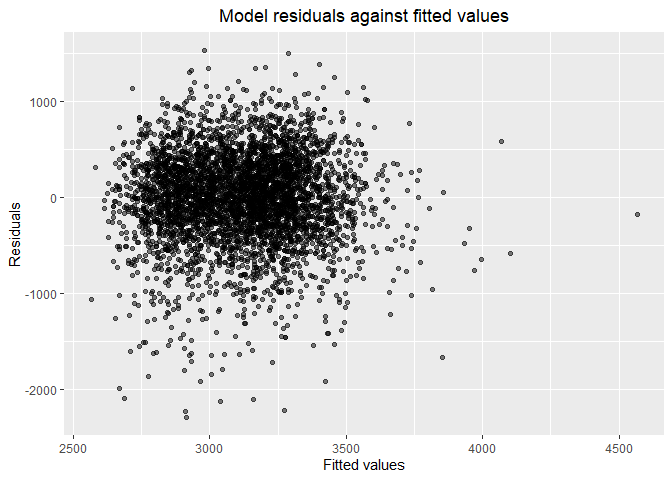
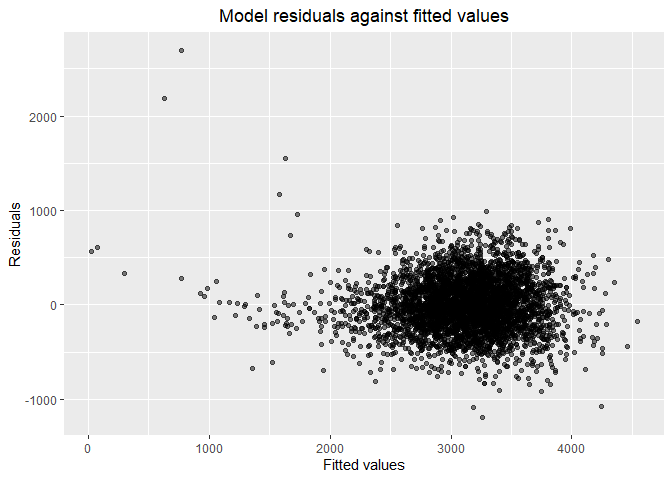
Comparison of the three models

diff --git a/p8105_hw6_hw2861.md b/p8105_hw6_hw2861.md
@@ -132,6 +132,7 @@ of several variables on a child’s birthweight.
 ``` r
 birthweight_df = 
   read_csv("./Data/birthweight.csv") %>% 
+  janitor::clean_names()  %>% 
    mutate(
     babysex = recode(babysex,'1' = "male", '2' = "female"),
     babysex = as_factor(babysex),
@@ -155,36 +156,34 @@ birthweight_df =
 
 -   I googled the “important factors that influence birth weight of
     newborns”. Some of the widely mentioned hypothesized predictors are
-    “mother’s weight at birth”, “Gender” and ” ethnicity”.
+    “mother’s weight at birth” and “Gender”.
+
+Also, other measurements of the child’s body are the important factors
+in birth weight. So, i include the (baby’s length and head
+circumference) as predictors..
 
 According to the hypothesized structure for the factors that underly
 birthweight, i proposed a regression model for **bwt**.
 
 ``` r
-bwt_regression1 =
-  lm(bwt ~ babysex + delwt  + mrace + frace, data = birthweight_df)
+bwt_model1 =
+  lm(bwt ~ babysex + delwt + blength* bhead, data = birthweight_df)
 ```
 
 ### Create predictions and residuals for the model
 
 ``` r
-bwt_regression1_df=
+bwt_model1_df=
   birthweight_df %>% 
-  modelr::add_predictions(bwt_regression1) %>% 
-  modelr::add_residuals(bwt_regression1) 
+  modelr::add_predictions(bwt_model1) %>% 
+  modelr::add_residuals(bwt_model1) 
 ```
-
-    ## Warning in predict.lm(model, data): prediction from a rank-deficient fit may be
-    ## misleading
-
-    ## Warning in predict.lm(model, data): prediction from a rank-deficient fit may be
-    ## misleading
 
 ### Show a plot of model residuals against fitted values
 
 ``` r
-bwt_regression1_plot =
-bwt_regression1_df %>% 
+bwt_model1_plot =
+bwt_model1_df %>% 
   ggplot(aes(x = pred, y = resid)) +
   geom_point(alpha = 0.5)+
   labs(x = "Fitted values",
@@ -192,7 +191,58 @@ bwt_regression1_df %>%
     title = "Model residuals against fitted values")+
   theme(plot.title = element_text(hjust = 0.5))
 
-bwt_regression1_plot
+bwt_model1_plot
 ```
 
 ![](p8105_hw6_hw2861_files/figure-gfm/unnamed-chunk-7-1.png)<!-- -->
+
+### Compare my model to two others:
+
+-   One using length at birth and gestational age as predictors (main
+    effects only)
+
+-   One using head circumference, length, sex, and all interactions
+    (including the three-way interaction) between these
+
+``` r
+bwt_model2 = lm(bwt ~ blength + gaweeks, data = birthweight_df)
+bwt_model3 = lm(bwt ~ bhead * blength * babysex, data = birthweight_df)
+
+
+cv_df = 
+  crossv_mc(birthweight_df, 100) %>% 
+  mutate(
+    train = map(train, as_tibble),
+    test = map(test, as_tibble)) 
+
+cv_df = 
+  cv_df %>% 
+  mutate(
+    bwt_model1  = map(train, ~lm(bwt ~ babysex + delwt + blength*bhead, data = .x)),
+    bwt_model2 = map(train, ~lm(bwt ~ blength + gaweeks, data = .x)),
+    bwt_model3  = map(train, ~lm(bwt ~ bhead * blength * babysex, data = .x))) %>% 
+    mutate(
+    rmse_model1 = map2_dbl(bwt_model1, test, ~rmse(model = .x, data = .y)),
+    rmse_model2 = map2_dbl(bwt_model2, test, ~rmse(model = .x, data = .y)),
+    rmse_model3 = map2_dbl(bwt_model3, test, ~rmse(model = .x, data = .y)))
+```
+
+### Finally, I’ll plot the prediction error distribution for each candidate model.
+
+``` r
+cv_df %>% 
+  select(starts_with("rmse")) %>% 
+  pivot_longer(
+    everything(),
+    names_to = "model", 
+    values_to = "rmse",
+    names_prefix = "rmse_") %>% 
+  mutate(model = fct_inorder(model)) %>% 
+  ggplot(aes(x = model, y = rmse)) + geom_violin()
+```
+
+![](p8105_hw6_hw2861_files/figure-gfm/unnamed-chunk-9-1.png)<!-- -->
+
+Based on the results of rmse, I would choose **bwt_model1** as the best
+fit model among the three. Since it has the lowest root mean squared
+error.
